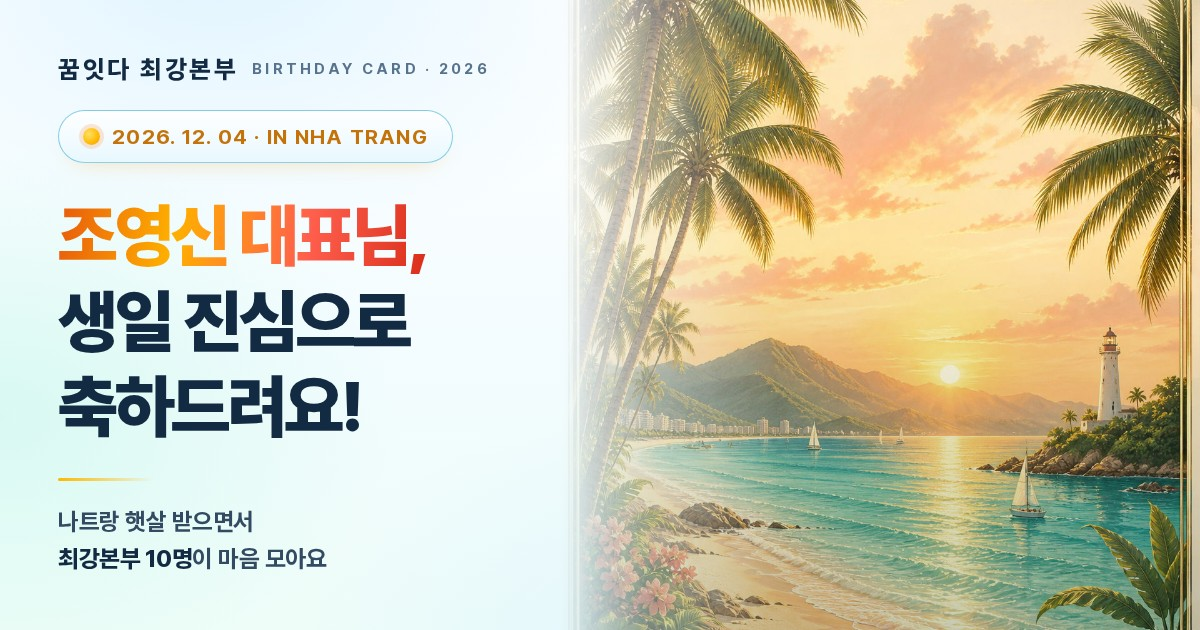
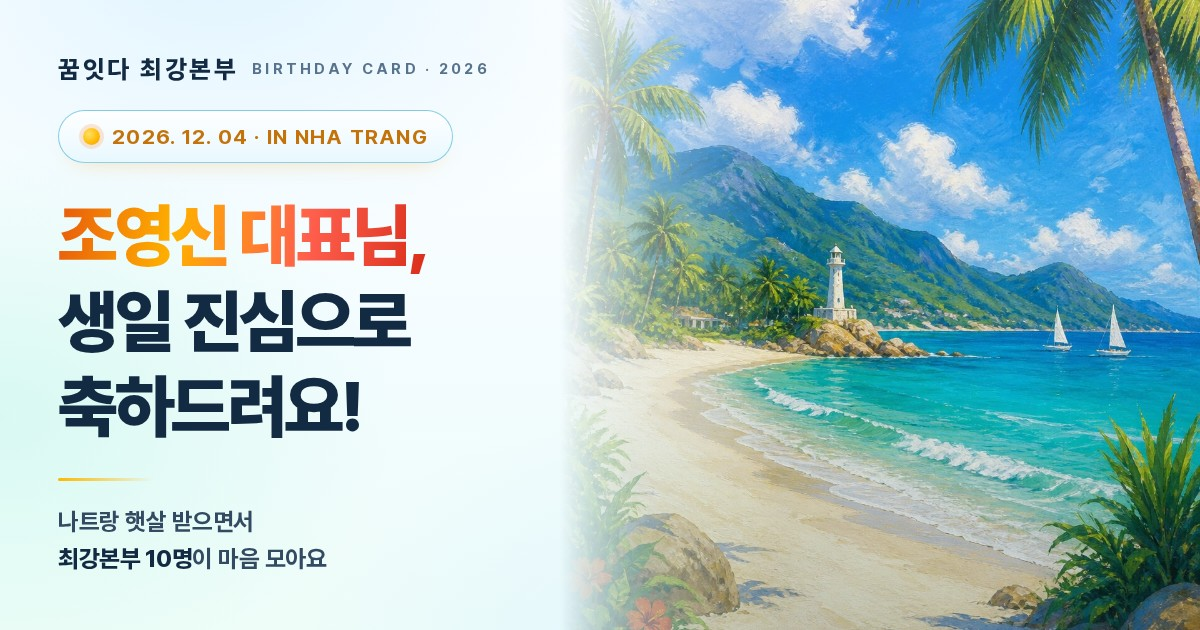
hbd-jo: 노을 일러스트를 한낮 에메랄드 바다 일러스트로 교체(푸른 하늘·터콰이즈 바다·하얀 모래·야자수), OG 썸네일 동기화

diff --git a/hbd-jo/index.html b/hbd-jo/index.html
@@ -371,7 +371,7 @@
   <figure class="art reveal" style="margin-bottom:0">
     <div class="art-frame">
       <img src="nha-trang-day.jpg" width="1024" height="1536" fetchpriority="high" decoding="async"
-           alt="햇살이 내려앉은 나트랑의 에메랄드 바다와 야자수, 등대와 범선이 그려진 크림·골드 일러스트">
+           alt="한낮의 파란 하늘 아래 에메랄드빛 나트랑 바다와 하얀 모래사장, 초록 야자수와 등대·범선이 그려진 일러스트">
       <figcaption class="art-cap"><b>NHA TRANG · VIỆT NAM</b><span>DEC 04 · 2026</span></figcaption>
     </div>
   </figure>
